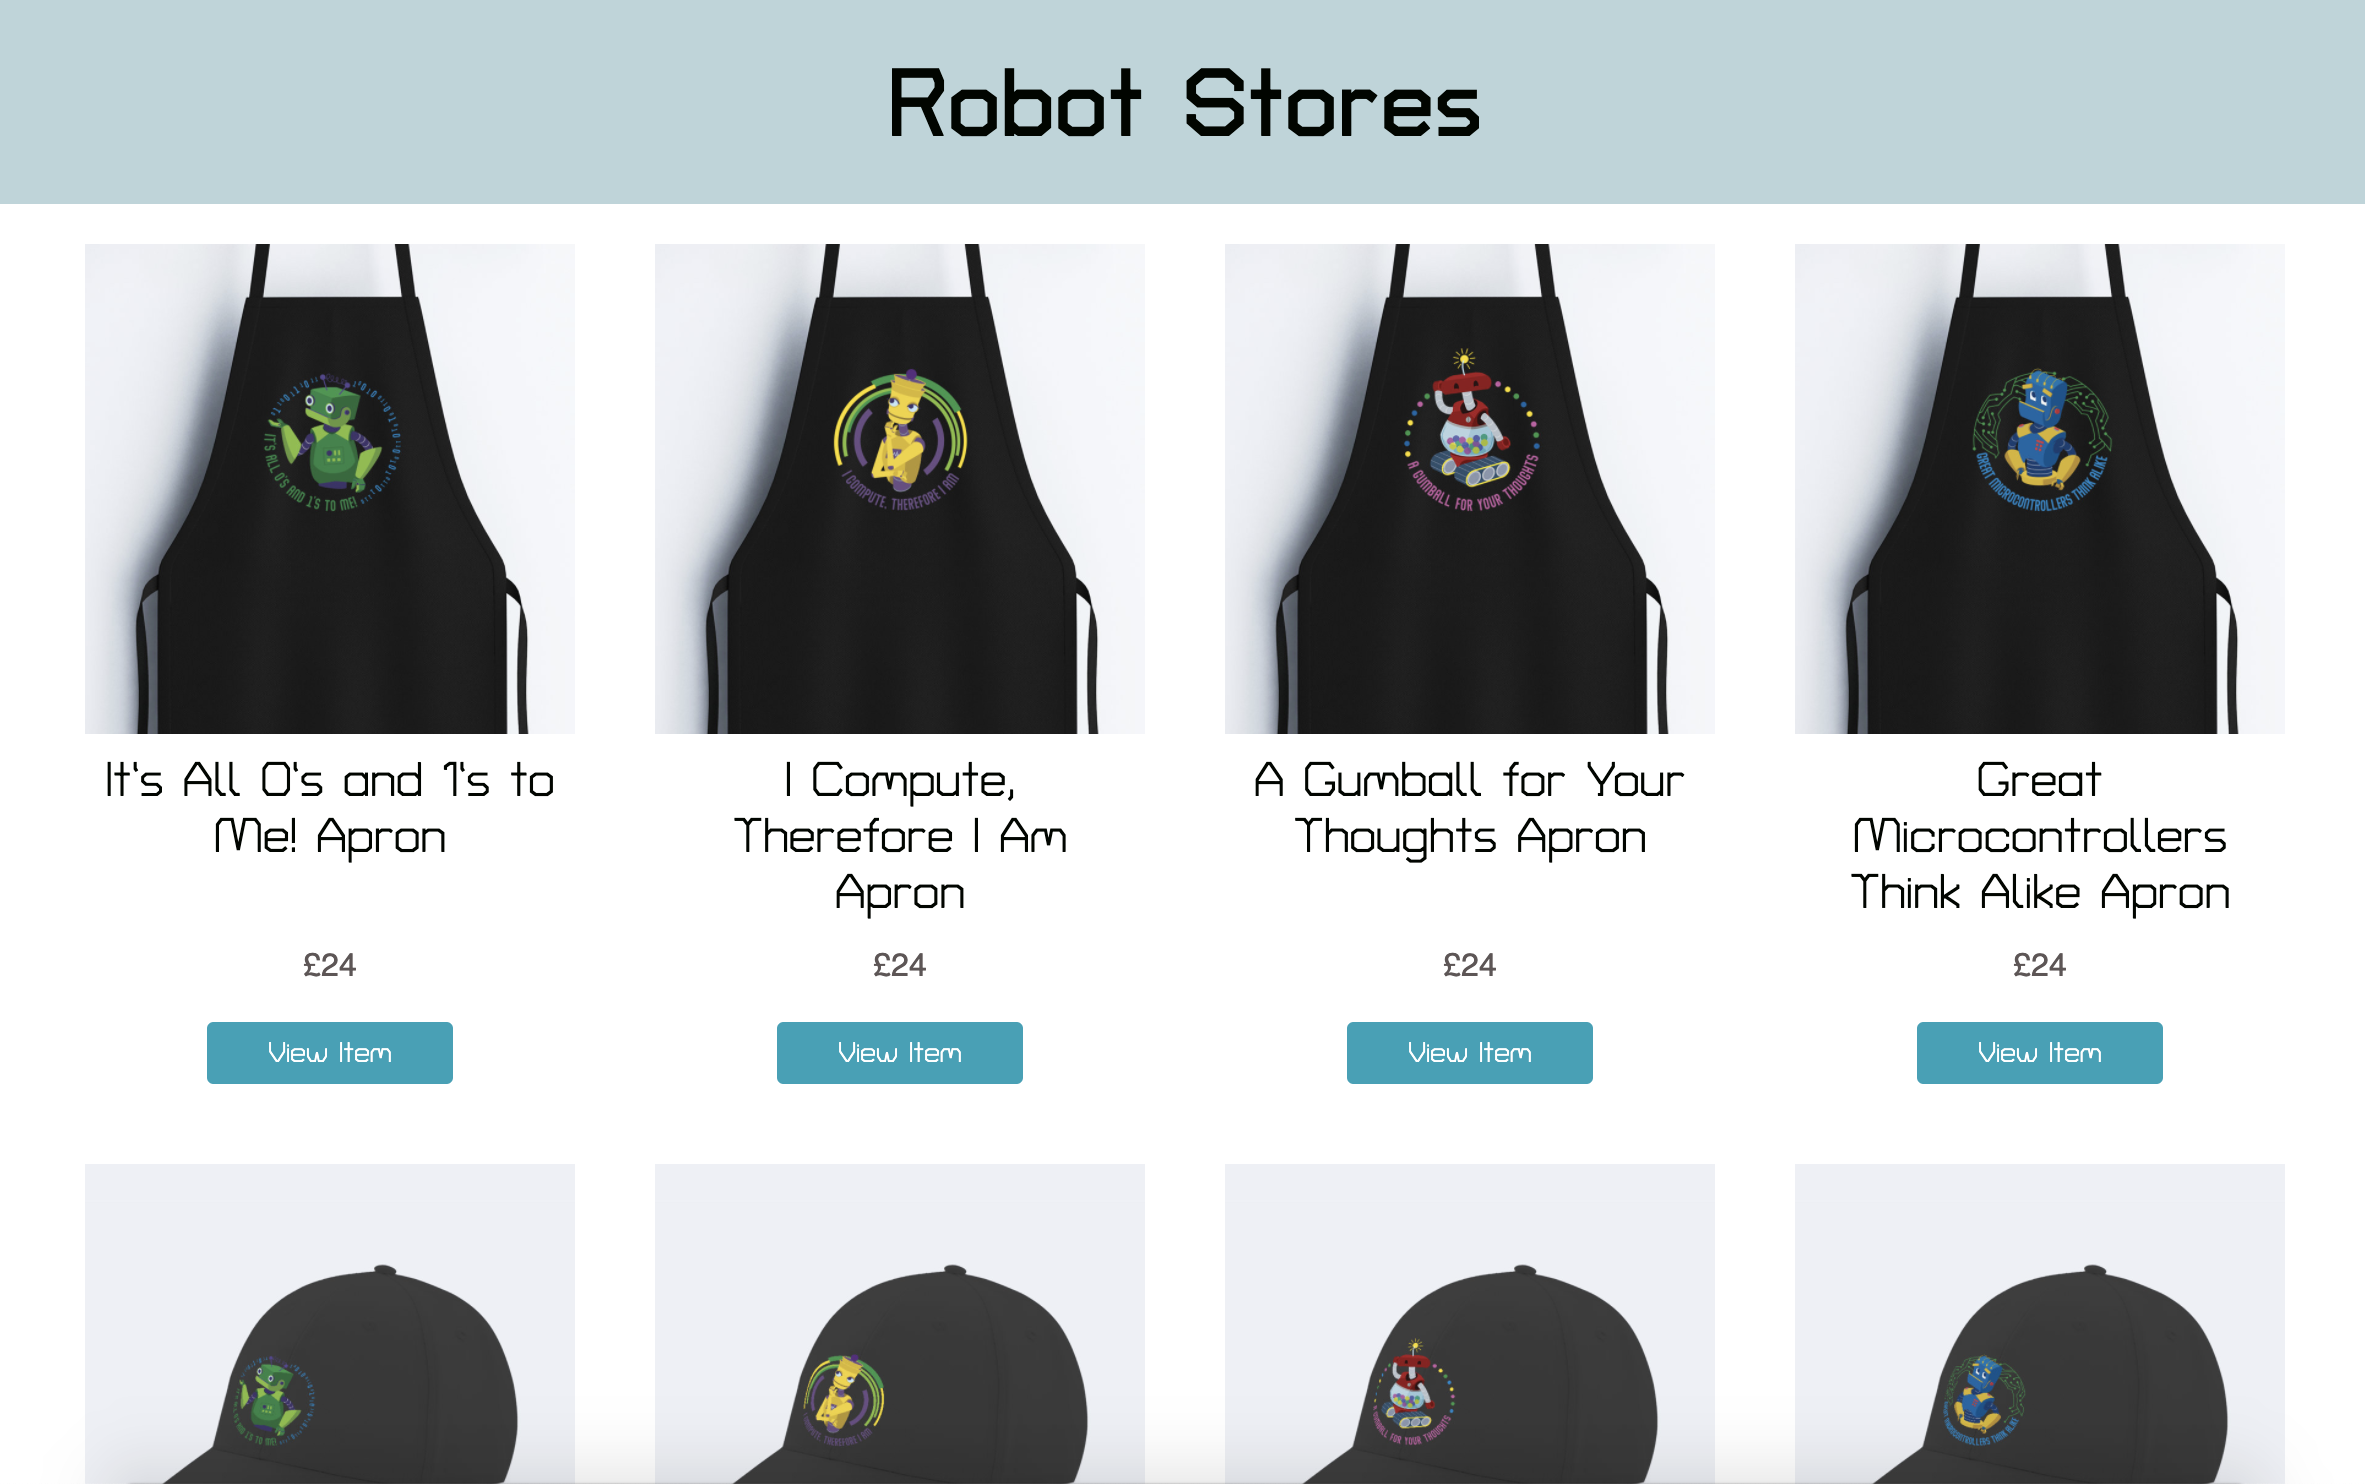
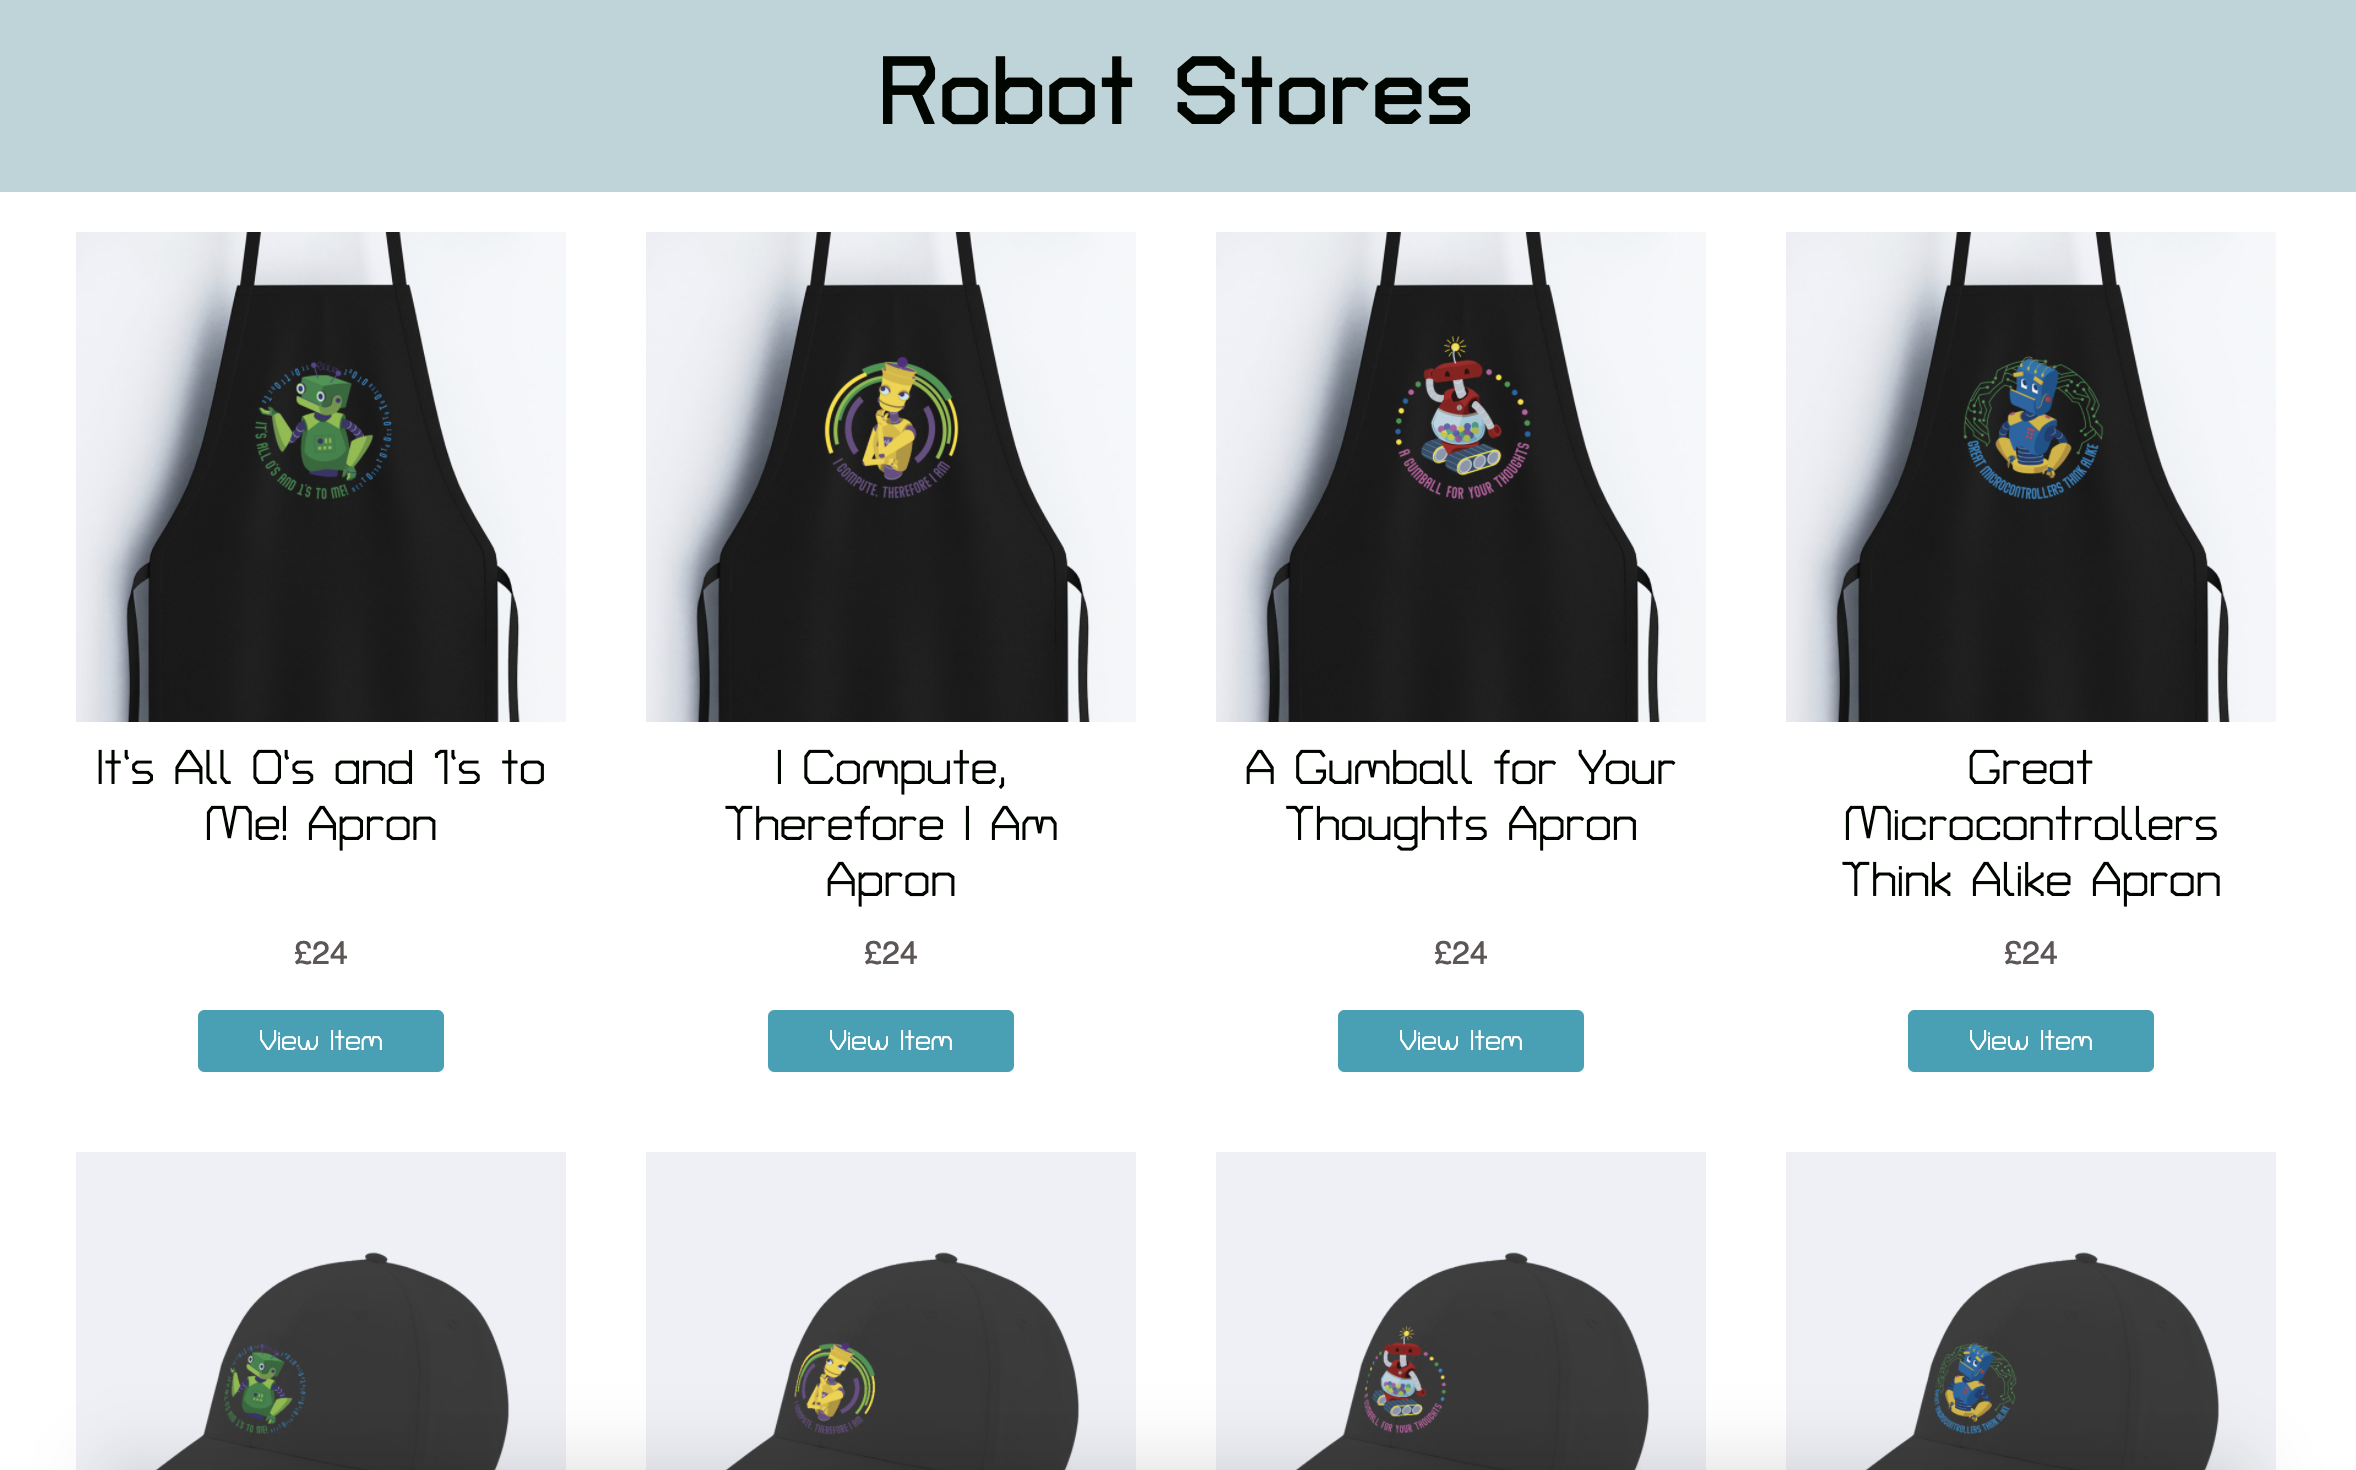
added more projects

diff --git a/app/css/style.css b/app/css/style.css
@@ -14,11 +14,12 @@
 body {
   background-color: var(--background);
   color: var(--text);
-  font-family: 'Titillium Web', sans-serif; }
+  font-family: 'Titillium Web', sans-serif;
+  font-size: 1.4rem; }
 
 .navbar-custom {
   color: var(--text);
-  font-size: 1.2rem;
+  font-size: 1.4rem;
   background-color: var(--background); }
 
 nav i {
@@ -54,7 +55,7 @@ nav li {
     .top .intro-text h2 {
       font-size: 2rem; }
     .top .intro-text p {
-      font-size: 1.2rem; }
+      font-size: 1.4rem; }
 
 .social-menu {
   display: flex;
@@ -98,7 +99,7 @@ nav li {
     display: block; }
   .aboutSection .text {
     align-self: center;
-    font-size: 1.2rem; }
+    font-size: 1.4rem; }
 
 .skillsSection i {
   color: #f58f00; }
@@ -149,6 +150,7 @@ nav li {
   margin: 25px 0 10px;
   padding: 0;
   list-style: none;
+  font-size: 1.2rem;
   font-weight: 500;
   letter-spacing: 5px; }
   .projectTechList li {
@@ -237,4 +239,4 @@ footer {
   .top {
     height: auto; } }
 
[2 lines of base64/hex data omitted]

diff --git a/app/index.html b/app/index.html
@@ -517,11 +517,11 @@
                 <img src="assets/IMG_7406.jpeg" alt="ellie at graduation">
             </div>
         </div>
-        <div class="row section skillsSection">
+        <div class="row section pt-5 skillsSection">
             <div class="col-md-12">
                 <h3>My Skills</h3>
                 <p>So far I've learnt:</p>
-                <div class="row bullets">
+                <div class="row pt-3 bullets">
                     <div class="col-md-2 col-sm-6 col-6">
                         <div class="bulletPoint">
                             <i class="far fa-circle"></i><p>PHP</p>
@@ -557,53 +557,24 @@
                 </div>
             </div>
         </div>
-        <div class="row section projectSection" id="Projects">
+        <div class="row pt-5 section projectSection" id="Projects">
             <div class="col-md-12">
                 <h3>Projects</h3>
                 <p>Have a look at some of the projects I've completed so far.</p>
             </div>
-            <div class="row pt-4 d-flex">
-                <div class="col-md-4">
-                        <div class="browser">
-                            <img src="assets/wine-collection-app.png" alt="picture of wine collection application">
-                        </div>
-                </div>
-                <div class="col-md-4 projectInfo text-center">
-                        <h3>Collector App</h3>
-                        <div class="projectDescription">
-                            <p>
-                                Built a collectors app that allows you to store and display items.
-                            </p>
-                            <ul class="projectTechList">
-                                <li>HTML</li>
-                                <li>CSS</li>
-                                <li>PHP</li>
-                                <li>MySQL</li>
-                            </ul>
-
-                        <div class="social-menu">
-                            <a class="social-button github" href="https://github.com/ellie-r/collectorApp" target="_blank">
-                                    <i class="fab fa-github"></i>
-                            </a>
-                            <a class="social-button openProject" href="https://2020-ellier.dev.io-academy.uk/collectorApp/" target="_blank">
-                                <i class="fas fa-external-link-alt"></i>
-                            </a>
-                        </div>
+            <div class="row pt-2 d-flex justify-content-around">
+                <div class="col-md-6 col-12 pt-5">
+                    <div class="browser">
+                        <img src="assets/robot-stores.png" alt="picture of wine collection application">
                     </div>
                 </div>
-<!--            </div>-->
-<!--            <div class="row pt-5 d-flex">-->
-
-                <div class="col-md-4">
-                        <div class="browser">
-                            <img src="assets/robot-stores.png" alt="picture of wine collection application">
-                        </div>
-                </div>
-                <div class="col-md-4 projectInfo text-center">
+                <div class="col-md-6 col-12 pt-5 projectInfo text-center">
                     <h3>E Commerce Store</h3>
                     <div class="projectDescription">
                         <p>
-                            Built a collectors app that allows you to store and display items.
+                            Built an e-commerce store web app with object oriented PHP. Had to extract data
+                            from an API and import into a MySQL database. Worked as a scrum team of 8 to
+                            plan the architecture and estimate tasks.
                         </p>
                         <ul class="projectTechList">
                             <li>PHP</li>
@@ -615,6 +586,86 @@
                             </a>
                             <a class="social-button openProject" href="https://2020-ellier.dev.io-academy.uk/collectorApp/" target="_blank">
                                 <i class="fas fa-external-link-alt"></i>
+                            </a>
+                        </div>
+                    </div>
+                </div>
+
+                <div class="col-md-6 col-12 pt-5">
+                    <div class="browser">
+                        <img src="assets/wine-collection-app.png" alt="picture of wine collection application">
+                    </div>
+                </div>
+                <div class="col-md-6 col-12 pt-5 projectInfo text-center">
+                    <h3>Collector App</h3>
+                    <div class="projectDescription">
+                        <p>
+                            Built a collectors app that allows you to store and display items, and the option to add
+                            new items. Written in functional and unit tested PHP and uses a MySQL database.
+                        </p>
+                        <ul class="projectTechList">
+                            <li>HTML</li>
+                            <li>CSS</li>
+                            <li>PHP</li>
+                            <li>MySQL</li>
+                        </ul>
+
+                        <div class="social-menu">
+                            <a class="social-button github" href="https://github.com/ellie-r/collectorApp" target="_blank">
+                                <i class="fab fa-github"></i>
+                            </a>
+                            <a class="social-button openProject" href="https://2020-ellier.dev.io-academy.uk/collectorApp/" target="_blank">
+                                <i class="fas fa-external-link-alt"></i>
+                            </a>
+                        </div>
+                    </div>
+                </div>
+                <div class="col-md-6 col-12 pt-5">
+                    <div class="browser">
+                        <img src="assets/aptitude-test-app.png" alt="picture of aptitude test application">
+                    </div>
+                </div>
+                <div class="col-md-6 col-12 pt-5 projectInfo text-center">
+                    <h3>Academy Aptitude Test</h3>
+                    <div class="projectDescription">
+                        <p>
+                            Worked as a scrum team and pair programmed to add new front end features to this legacy project. Used GULP
+                            as a task runner to compile our TypeScript and SASS code. Also used Handlebars for
+                            JavaScript templating.
+                        </p>
+                        <ul class="projectTechList">
+                            <li>TypeScript</li>
+                            <li>SASS</li>
+                            <li>Handlebars</li>
+                        </ul>
+
+                        <div class="social-menu">
+                            <a class="social-button github" href="https://github.com/Mayden-Academy/aptitude-test" target="_blank">
+                                <i class="fab fa-github"></i>
+                            </a>
+                        </div>
+                    </div>
+                </div>
+                <div class="col-md-6 col-12 pt-5">
+                    <div class="browser">
+                        <img src="assets/maze-game.png" alt="picture of maze game application">
+                    </div>
+                </div>
+                <div class="col-md-6 col-12 pt-5 projectInfo text-center">
+                    <h3>Maze Game: Jarvers Crypt</h3>
+                    <div class="projectDescription">
+                        <p>
+                            A game built with vanilla JavaScript, HTML and CSS.
+                        </p>
+                        <ul class="projectTechList">
+                            <li>JavaScript</li>
+                            <li>HTML</li>
+                            <li>CSS</li>
+                        </ul>
+
+                        <div class="social-menu">
+                            <a class="social-button github" href="https://github.com/Mayden-Academy/aptitude-test" target="_blank">
+                                <i class="fab fa-github"></i>
                             </a>
                         </div>
                     </div>

diff --git a/app/scss/style.scss b/app/scss/style.scss
@@ -19,11 +19,12 @@ body {
   background-color: var(--background);
   color: var(--text);
   font-family: 'Titillium Web', sans-serif;
+  font-size: 1.4rem;
 }
 
 .navbar-custom {
   color: var(--text);
-  font-size: 1.2rem;
+  font-size: 1.4rem;
   background-color: var(--background);
 }
 nav i {
@@ -70,7 +71,7 @@ nav li {
       font-size: 2rem;
     }
     p {
-      font-size: 1.2rem;
+      font-size: 1.4rem;
     }
   }
 }
@@ -133,7 +134,7 @@ nav li {
   }
   .text {
     align-self: center;
-    font-size: 1.2rem;
+    font-size: 1.4rem;
   }
 
 }
@@ -207,6 +208,7 @@ nav li {
   margin: 25px 0 10px;
   padding: 0;
   list-style: none;
+  font-size: 1.2rem;
   font-weight: 500;
   letter-spacing: 5px;
   li {
